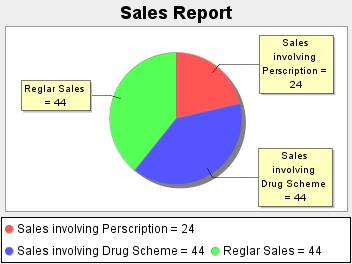
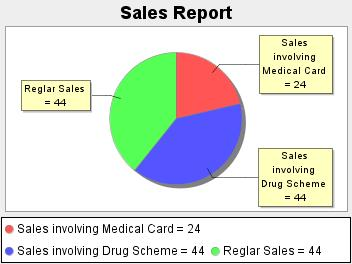
Charts Fixed part2

Changed region(s): [[0.75, 0.1212, 0.9688, 0.3636], [0.2812, 0.8485, 0.5938, 0.9091], [0.7812, 0.1515, 0.875, 0.1818]]

diff --git a/src/com/psview/SalesReportPanel.java b/src/com/psview/SalesReportPanel.java
@@ -15,6 +15,9 @@ public class SalesReportPanel extends JPanel{
     private JButton backToMainMenuBtn;
     private ImageIcon img;
     private JLabel logo;
+    private JLabel prescriptionLbl;
+    private JLabel drugSchemeLbl;
+    private JLabel regularSalesLbl;
     
     public SalesReportPanel()
     {
@@ -31,6 +34,10 @@ public class SalesReportPanel extends JPanel{
         img = new ImageIcon(PharmacyConstants.pharmacyIconFilePath);
         logo = new JLabel();
         logo.setIcon(img);
+        prescriptionLbl = new JLabel();
+        drugSchemeLbl = new JLabel();
+        regularSalesLbl = new JLabel();
+        
        //new create
         
         
@@ -40,29 +47,29 @@ public class SalesReportPanel extends JPanel{
         barLabel.setBounds(410, 50, 352, 264);
         backToMainMenuBtn.setBounds(600,500,150,20);
         logo.setBounds(20,450,100,100);
+        prescriptionLbl.setBounds(320,364,150,20);
+        
+        drugSchemeLbl.setBounds(320,414,150,20);
+        
+        regularSalesLbl.setBounds(320,464,150,20);
         
         //Adding to components to Panel
         this.add(pieLabel);
         this.add(barLabel);
         this.add(backToMainMenuBtn);
         this.add(logo);
+        this.add(prescriptionLbl);        
+        this.add(drugSchemeLbl);
+        this.add(regularSalesLbl);
     }
 
-    /*
-    public void initializeImages(){
-        barLabel = new JLabel();
-        pieLabel = new JLabel();
-        barLabel.setIcon(null);
-        pieLabel.setIcon(null);
-        pieLabel.revalidate();
-        barLabel.revalidate();
-         pieImage = new ImageIcon(PharmacyConstants.pieChartFilePath);
-         barImage = new ImageIcon(PharmacyConstants.barChartFilePath);
-         barLabel.setIcon(barImage);
-         pieLabel.setIcon(pieImage);
-         barLabel.repaint();
-         pieLabel.repaint();
-    }*/
+    public void initializeLabels(int p,int d,int r){
+        prescriptionLbl.setText("Medical Card: " + p);
+        drugSchemeLbl.setText("Drug Scheme: " + d);
+        regularSalesLbl.setText("Regular Sales: " + r);
+        
+    }
+    
     public void addBackToMainMenuListener(ActionListener listenerForBackToMainMenuBtn){
         backToMainMenuBtn.addActionListener(listenerForBackToMainMenuBtn);
     }

diff --git a/src/com/psmodel/SalesReportModel.java b/src/com/psmodel/SalesReportModel.java
@@ -9,6 +9,10 @@ import com.psmodel.sales.SalesPieChart;
 public class SalesReportModel {
 
     private final DataBaseManagment dbm;
+    private int medicalCardSales;
+    private int drugSchemeSales;
+    private int regularSales;
+    
     
     public SalesReportModel(DataBaseManagment dbm){
         this.dbm = dbm; 
@@ -20,9 +24,9 @@ public class SalesReportModel {
         int [] salesDetailsArray = dbm.getSalesDetailsArray();
         //Initialize Subject
         SalesDetails salesDetails =  new SalesDetails();
-        int medicalCardSales = salesDetailsArray[0];
-        int drugSchemeSales = salesDetailsArray[1];
-        int regularSales = salesDetailsArray[2];
+        medicalCardSales = salesDetailsArray[0];
+        drugSchemeSales = salesDetailsArray[1];
+        regularSales = salesDetailsArray[2];
 
         // Initialize Gadgets..Note the subject being passed in Constructor
         SalesBarChart salesBarChart = new SalesBarChart(salesDetails);
@@ -36,6 +40,16 @@ public class SalesReportModel {
 
         // Updating all Registered Observers
         salesDetails.notifyObserver();
+    }
+    
+    public int getMedicalCardSales(){
+        return medicalCardSales;
+    }
+    public int getDrugSchemeSales(){
+        return drugSchemeSales;
+    }
+    public int getRegularSales(){
+        return regularSales;
     }
     
     

diff --git a/src/com/pscontroller/SalesReportController.java b/src/com/pscontroller/SalesReportController.java
@@ -17,6 +17,7 @@ public class SalesReportController {
         
         this.salesReportModel.initializeSubjectsAndObservers();
         this.salesReportView.displaySalesReport();
+        this.salesReportView.initializeLabels(salesReportModel.getMedicalCardSales(),salesReportModel.getDrugSchemeSales(),salesReportModel.getRegularSales());
   
         //this.salesReportView.initializeCharts();
         this.salesReportView.addBackToMainMenuFromSalesReportsListener(new BackToMainMenuListener());

diff --git a/src/com/psmodel/sales/SalesPieChart.java b/src/com/psmodel/sales/SalesPieChart.java
@@ -39,7 +39,7 @@ public class SalesPieChart implements IObserver
     public void createPieChartImage(int x, int y, int z) throws IOException
     {
       DefaultPieDataset dataset = new DefaultPieDataset( );
-      dataset.setValue("Sales involving Perscription", new Double( x ) );
+      dataset.setValue("Sales involving Medical Card", new Double( x ) );
       dataset.setValue("Sales involving Drug Scheme", new Double( y ) );
       dataset.setValue("Reglar Sales", new Double( z ) );
 

diff --git a/src/com/psmodel/sales/SalesBarChart.java b/src/com/psmodel/sales/SalesBarChart.java
@@ -41,7 +41,7 @@ public class SalesBarChart implements IObserver
     public void createBarChartImage(int x, int y, int z) throws IOException
     {
 
-      final String perscription = "Sales involving Perscription";
+      final String perscription = "Sales involving Medical Card";
       final String drugScheme = "Sales involving Drug Scheme";
       final String regular = "Regular Sales";
       final String sales = "Sales";

diff --git a/src/com/psview/PharmacyView.java b/src/com/psview/PharmacyView.java
@@ -508,8 +508,8 @@ public void setOrderInvisible(){
     public void dontShowForProduct(){
         modifyPanel.dontShowButtonForProduct();
     }
-    /*
-    public void initializeCharts(){
-        salesReportPanel.initializeImages();
-    }*/
+    
+    public void initializeLabels(int p,int d,int r){
+        salesReportPanel.initializeLabels(p,d,r);
+    }
 }
